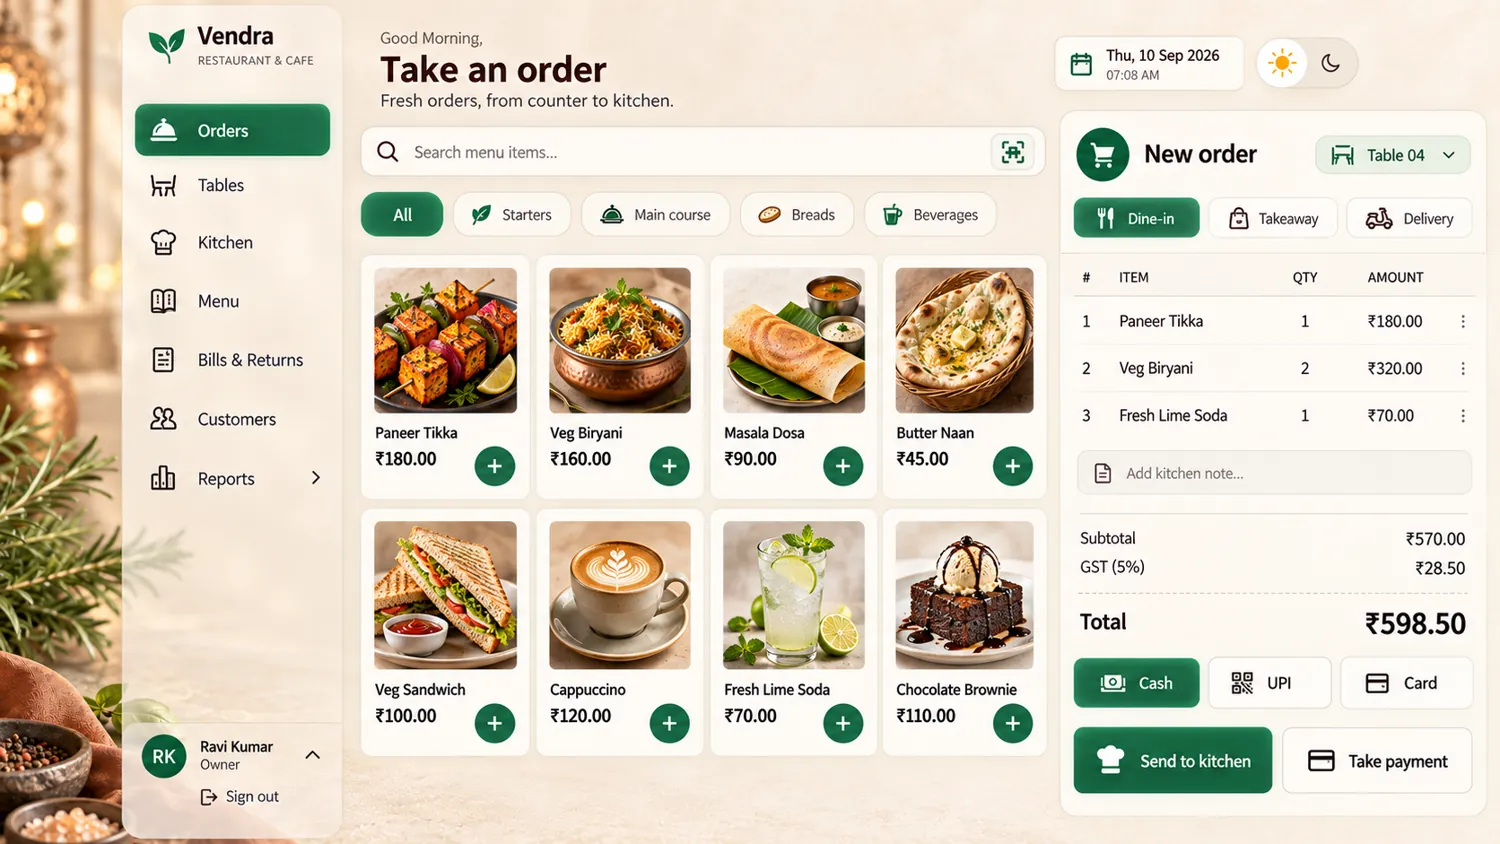
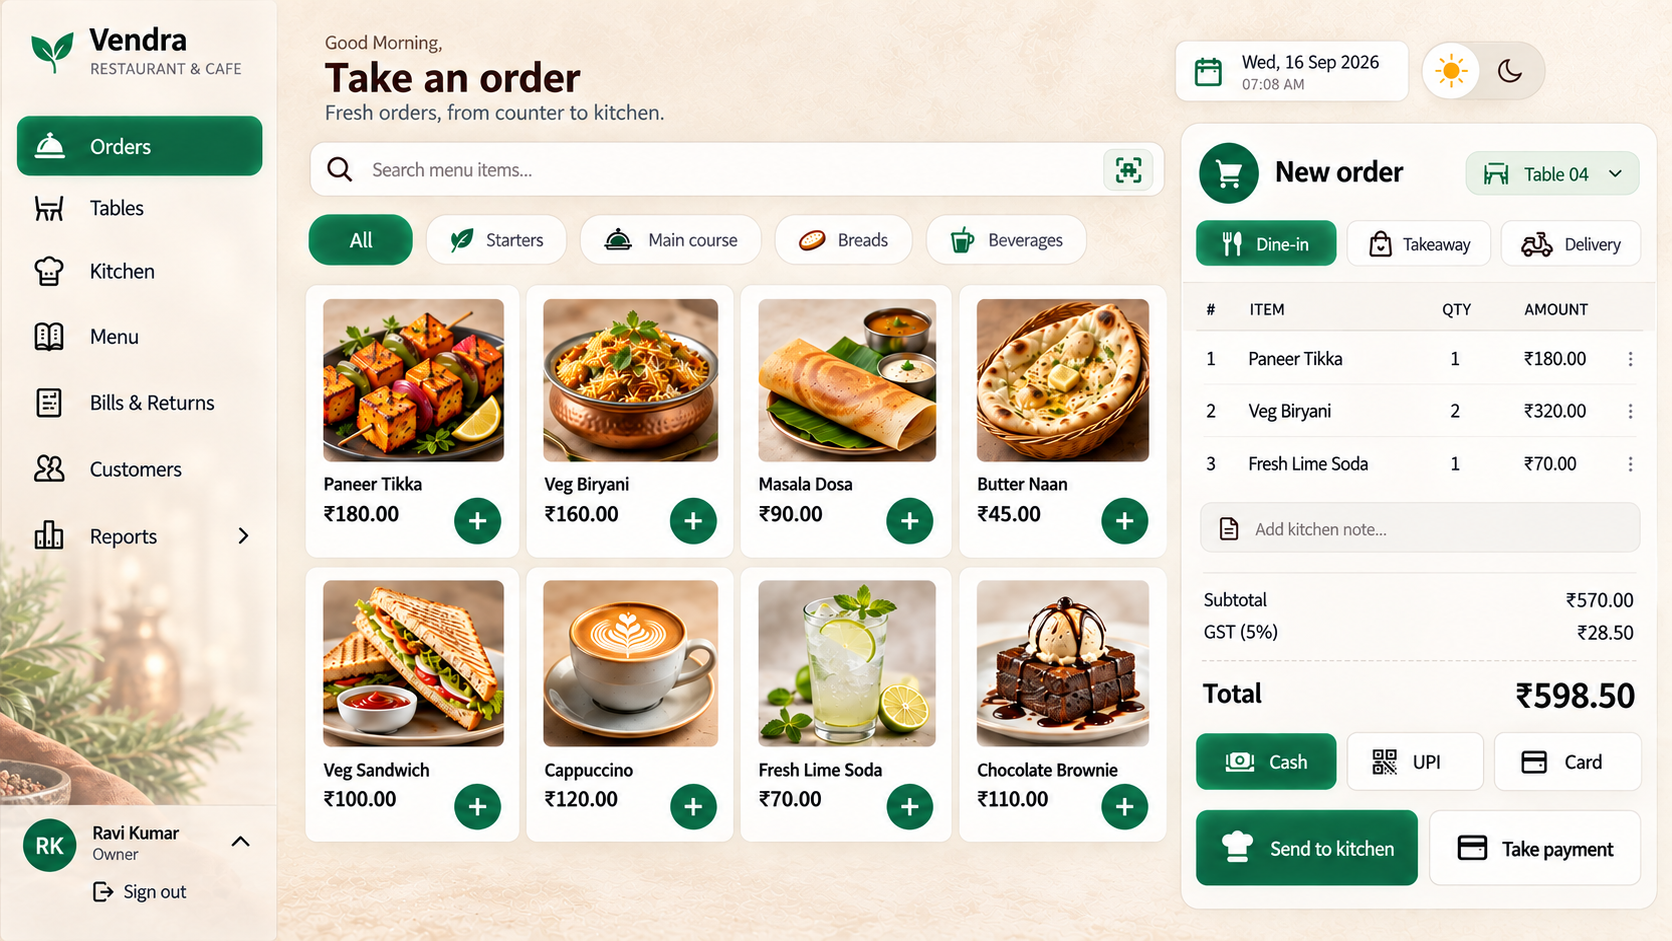
Vendra: add boutique and hospital mockups, update restaurant image

diff --git a/hephoratech-website/product-vendra.html b/hephoratech-website/product-vendra.html
@@ -964,6 +964,8 @@ html.js .frame{transform:translateY(26px) scale(.985);transform-origin:50% 0}
     },
     boutique: {
       label: 'Boutique & clothing',
+      shot: 'assets/ill/vendra-boutique.webp', alt: 'Vendra billing screen for a boutique — clothing products with size and colour options, a running bill with Linen Shirt and Silk Scarf',
+      cap: 'Boutique & clothing — browse collections, pick a size and colour, add to the bill and print the receipt.',
       points: [
         'One style tracked in every size and colour, so stock counts mean something',
         'Price and barcode labels printed from the counter as stock comes in',
@@ -972,6 +974,8 @@ html.js .frame{transform:translateY(26px) scale(.985);transform-origin:50% 0}
     },
     hospital: {
       label: 'Hospital & clinic',
+      shot: 'assets/ill/vendra-hospital.webp', alt: 'Vendra patient billing screen for a hospital — services like consultation, lab tests and imaging with a patient bill panel',
+      cap: 'Hospital & clinic — add consultations, lab tests and procedures to a patient bill, collect payment and print the receipt.',
       points: [
         'Pharmacy counter billing with batch numbers and expiry dates in view',
         'Consultation and procedure charges alongside medicines on one bill',
@@ -1088,6 +1092,8 @@ html.js .frame{transform:translateY(26px) scale(.985);transform-origin:50% 0}
   var SHOTS = {
     supermarket:{v:'assets/ill/vendra-billing.webp', t:'Billing — the supermarket counter.',     a:'Vendra billing screen — a supermarket counter with product photos, category filters and the bill panel showing the GST split'},
     restaurant: {v:'assets/ill/vendra-restaurant.webp', t:'Orders — the restaurant counter.',       a:'Vendra order screen for a restaurant — menu items by course, a running table order and Send to kitchen'},
+    boutique:   {v:'assets/ill/vendra-boutique.webp', t:'Billing — the boutique counter.',          a:'Vendra billing screen for a boutique — clothing products with size and colour options, a running bill with Linen Shirt and Silk Scarf'},
+    hospital:   {v:'assets/ill/vendra-hospital.webp', t:'Billing — the hospital billing desk.',     a:'Vendra patient billing screen for a hospital — services like consultation, lab tests and imaging with a patient bill panel'},
     products:   {v:'assets/ill/vendra-products.webp', t:'Products — the full catalogue with stock counts and a quick add form.', a:'Vendra products screen — the full catalogue with total, low and out-of-stock counters and an add product form'},
     reports:    {v:'assets/ill/vendra-reports.webp', t:'Reports — sales against purchases, category split, top products and payment methods.', a:'Vendra reports screen — sales against purchases, sales by category, top products, top customers and payment methods'},
     customers:  {v:'assets/ill/vendra-customers.webp', t:'Customers — purchase history, totals and status for everyone who buys from you.', a:'Vendra customers screen — purchase history, total spent and status for every customer, with an add customer form'}
